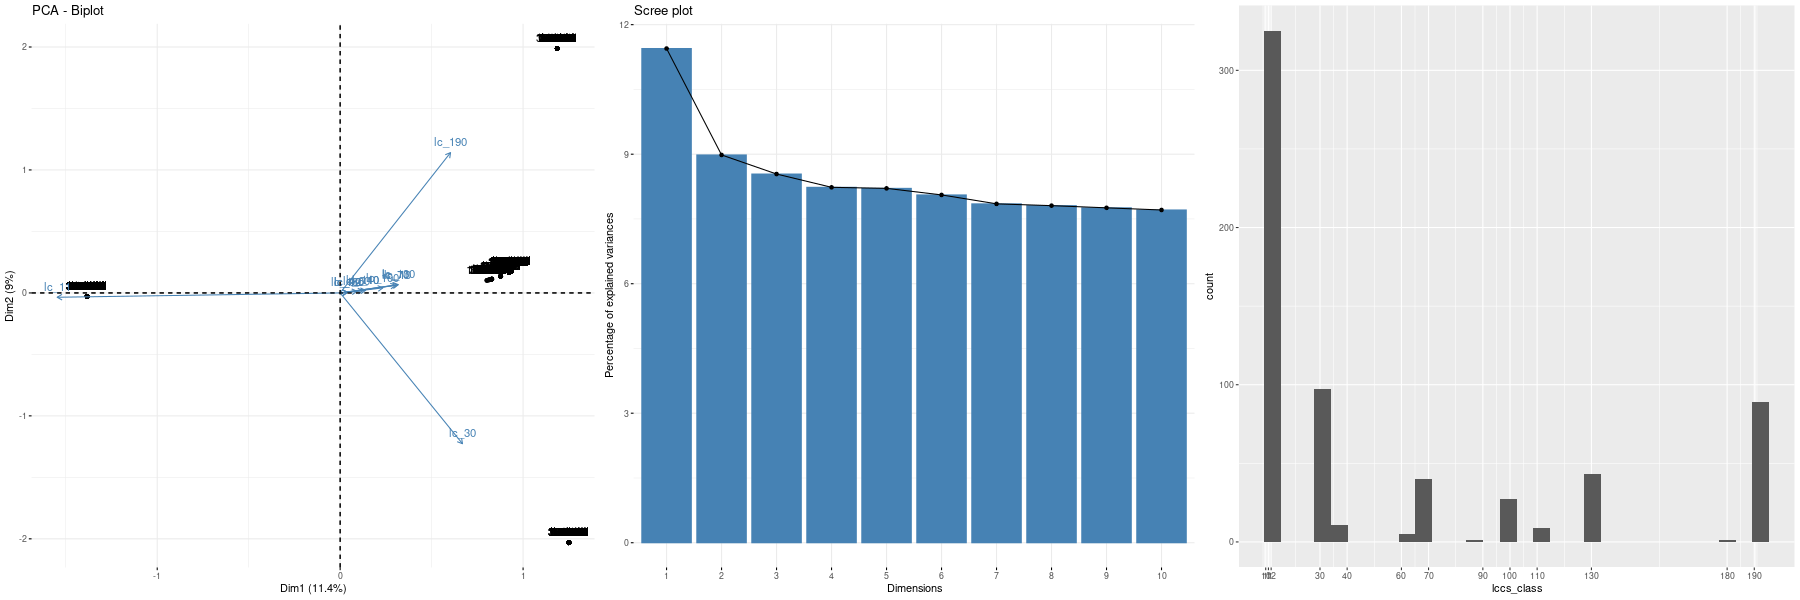
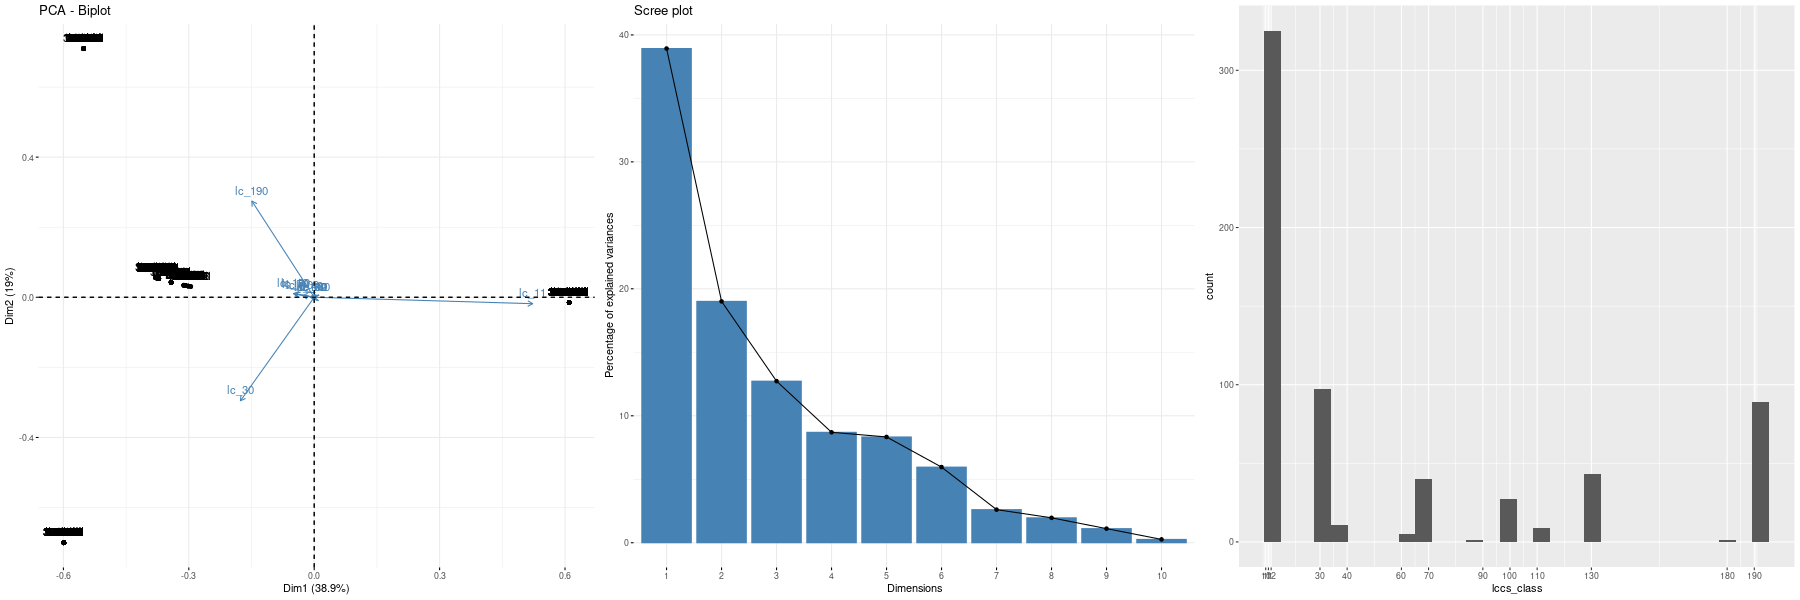
fixed lc_pca

diff --git a/R/notebook.md b/R/notebook.md
@@ -165,7 +165,9 @@ Absence generation was extended to also include 2021 and 2022, since the absence
 
 ### 22/08/2023
 Model variable selection was extended to now incorporate the land cover PCA results into the VIF selection process.
-In addition to the already mentioned low amount of collinearity in land cover, the VIFs of each PCA component are very low, even at the beginning of dropping variables.
+Land cover PCA was fixed by correcting `scale.unit` to FALSE, since a 0/1 binary variable is obviously not scaled to zero mean and unit variance.
+This results in a great PCA with almost 40% of variance covered by PC1
+The VIFs of each PCA component are very low, even at the beginning of dropping variables.
 With each run until now, no land cover dimension has been dropped by the VIF algorithm.
 
 It was also discovered, that a large portion of occurrences are in areas with the lccs_class 'urban'.

diff --git a/R/openissues.md b/R/openissues.md
@@ -1,5 +1,4 @@
-### Variable selection
-land cover pca correct like this?  
+### Variable selection 
 Check all possible variable combinations for smallest VIFs?
 Compare with AUC?
 Use all years for selection?
